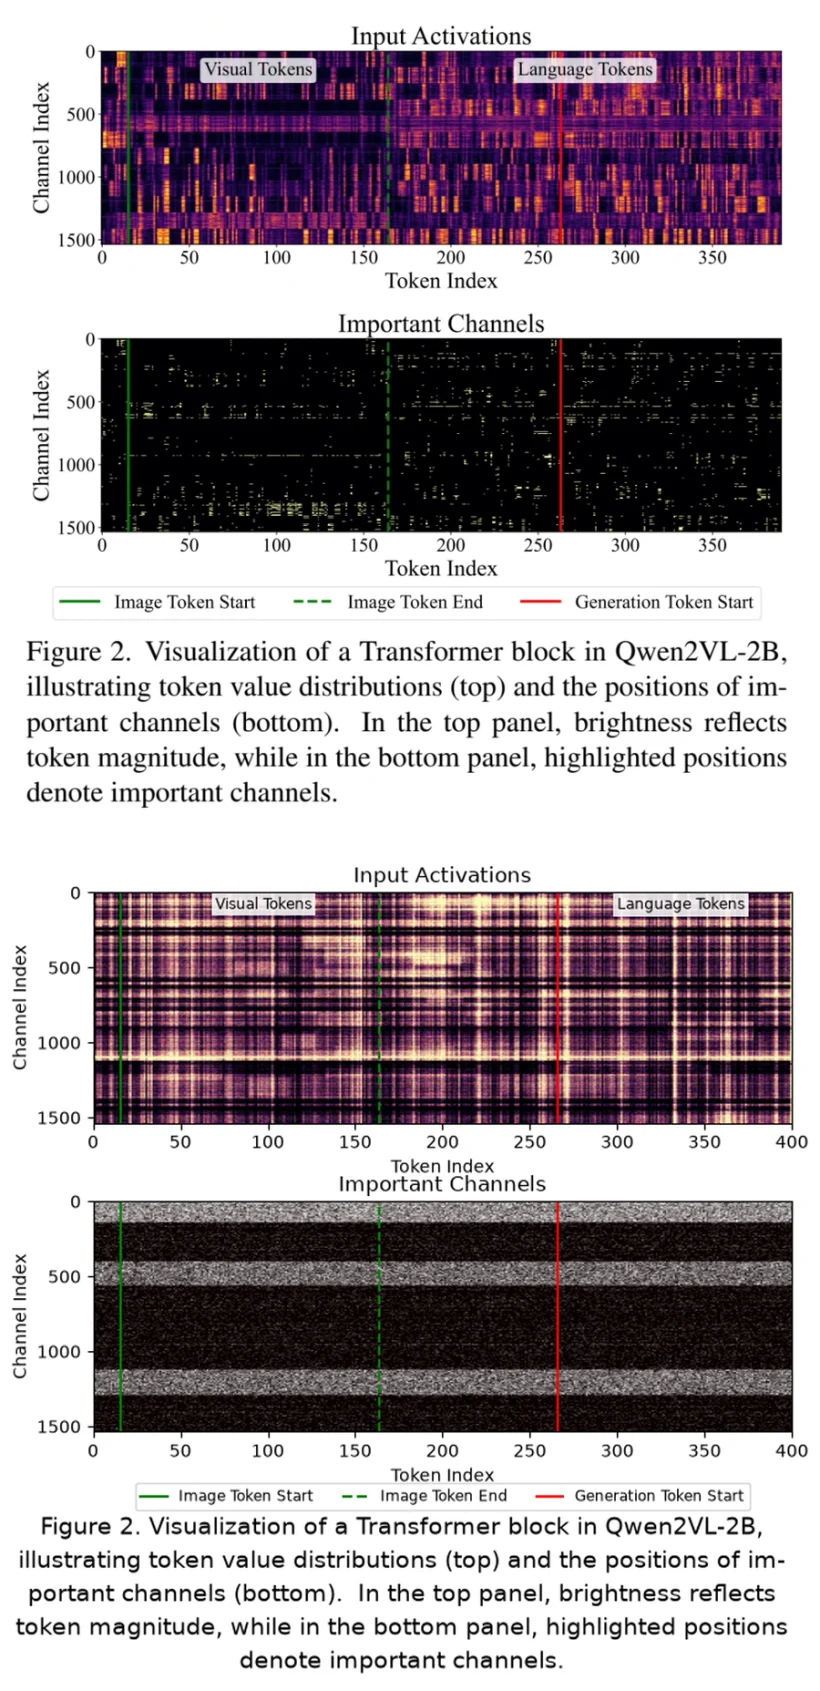
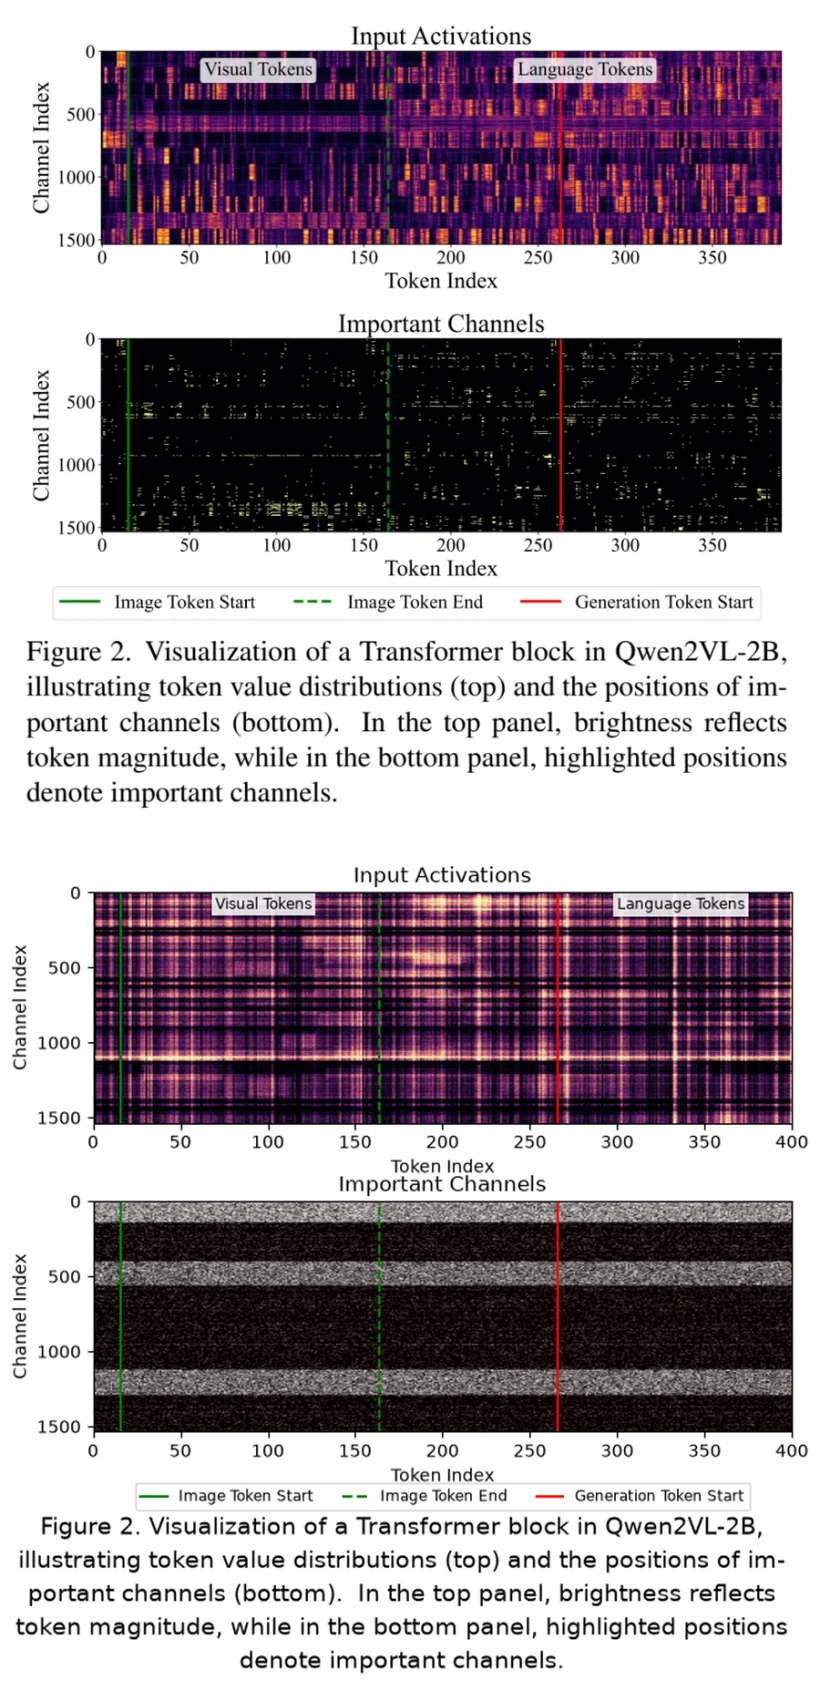
improve(replicas): 第六十六轮 —— 09 色相偏暖修正
色相探针（取上图区域）：
  原图 平均RGB=(165,141,163)  R>G 0.46  B>G 0.47  ← 紫调，R≈B
  修前 平均RGB=(165,143,151)  R>G 0.54  B>G 0.45  ← 偏暖（B 明显低于 R）
  现在 平均RGB=(152,129,145)  R>G 0.54  B>G 0.52  ← 蓝分量提上来，紫调恢复

vmax 88% → 97% 分位：让值分布更多落在 magma 的紫段而不是橙段

另外本轮：
- 07 hspace 0.30 → 0.62 拉开柱图与热图间距
  第 5 行密度 0.64 → 0.01（原图 0.24），墨迹 110% → 100%

当前：平均 101%，9/10 在 ±15% 内，AR 全部 ±1.6% 内

Changed region(s): [[0.0915, 0.5228, 0.9756, 0.6765]]

diff --git a/tools/figlab/replicas.py b/tools/figlab/replicas.py
@@ -610,7 +610,7 @@ def fig09():
     act_disp = np.clip((act_disp - 0.48) * 1.35 + 0.48, 0, 1)
     ax.imshow(act_disp, aspect="auto", cmap="magma", origin="upper",
               extent=[0, n_tok, n_ch, 0],
-              vmin=np.percentile(act_disp, 18), vmax=np.percentile(act_disp, 88))
+              vmin=np.percentile(act_disp, 18), vmax=np.percentile(act_disp, 97))
     ax.set_title("Input Activations", fontsize=12)
     ax.set_ylabel("Channel Index", fontsize=10)
     ax.set_xlabel("Token Index", fontsize=10)
